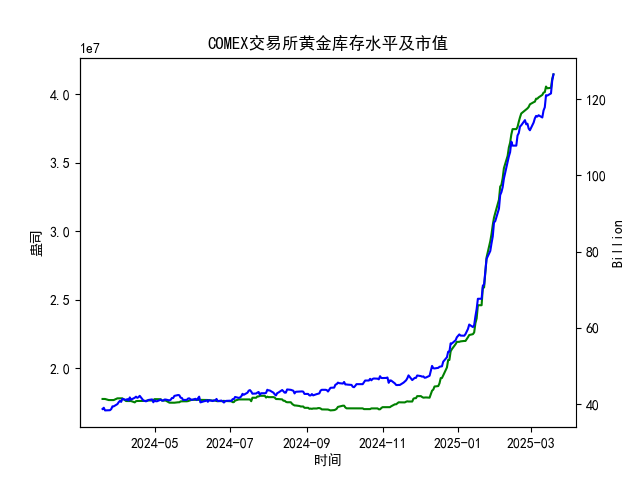
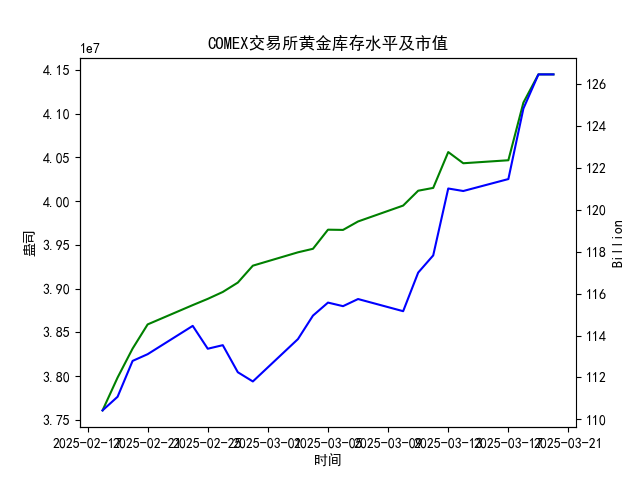
3.20 4

diff --git a/sjtz/wind/api.py b/sjtz/wind/api.py
@@ -9,7 +9,7 @@ dir = os.path.dirname(__file__)
 today = datetime.date.today()
 #print(today)
 w.start() # 默认命令超时时间为120秒，如需设置超时时间可以加入waitTime参数，例如waitTime=60,即设置命令超时时间为60秒 
-begin = today - datetime.timedelta(days=365)
+begin = today - datetime.timedelta(days=30)
 w.isconnected() # 判断WindPy是否已经登录成功
 data = w.edb(["S0114145","S0069669","S0031645","S0035819"],str(begin), end_date=str(today),Fill="Previous",usedf = True)[1]#comex黄金库存，comex黄金库存市值,黄金现货价（伦敦市场）#上海金交所黄金现货价
 z = np.around(np.multiply(data['S0114145'].values,data['S0069669'].values)/(10**9),decimals=2)
@@ -27,14 +27,17 @@ plt.rcParams['font.sans-serif'] = ['SimHei']
 plt.title('COMEX交易所黄金库存水平及市值')
 plt.savefig(os.path.join(dir,'plot.png'))
 
-prompt = f"""这是近一年COMEX交易所黄金库存量的数据：{data['S0114145']}
-这是近一年COMEX交易所黄金库存市值的数据(单位billian)：{z}
-这是近一年伦敦市场黄金现货价格数据：{data['S0031645']}
-这是近一年上海金交所黄金现货价格数据：{data['S0035819']}
+prompt = f"""这是近一个月COMEX交易所黄金库存量的数据：{data['S0114145']}
+这是近一个月COMEX交易所黄金库存市值的数据(单位billian)：{z}
+这是近一个月伦敦市场黄金现货价格数据：{data['S0031645']}
+这是近一个月上海金交所黄金现货价格数据：{data['S0035819']}
 任务：请根据上述结果分析判断近期是否存在套利策略。
 请使用Markdown格式回答，但不要用任何代码块（如 ```）包裹内容。
 """
+data.columns = ["comex黄金库存量","comex黄金库存市值","黄金现货价（伦敦市场）","上海金交所黄金现货价"]
+new_data = data.to_markdown()
 result = call_model(prompt)
-result+="![图](plot.png)"
+result+="\n"+"![图](plot.png)"
+result+="\n"+new_data
 with open(os.path.join(dir,"stragety.md"), "w", encoding="utf-8") as file:
             file.write(result)

diff --git a/sjtz/wind/stragety.md b/sjtz/wind/stragety.md
@@ -1,39 +1,78 @@
 
 
-根据提供的黄金库存、市值及价格数据，近期可能存在以下套利机会：
-
-### 一、跨市场套利（伦敦与上海）
-1. **价差分析**  
-   - 伦敦金价（美元计价）与上海金价（人民币计价）存在显著差异。以2025年3月19日为例：
-     - 伦敦金价：3027.55美元/盎司  
-     - 上海金价：707.70元/克  
-     - 按汇率1:7.2、1盎司≈31.1035克计算，伦敦金价换算为人民币约700元/克，与上海金价（707.70元/克）存在约7.7元/克的价差。
-
-2. **套利空间**  
-   - 若扣除交易成本（手续费、运输、保险等约5元/克），仍有约2.7元/克的潜在利润。若价差持续扩大，套利空间可能进一步增加。
-
-3. **风险因素**  
-   - 需关注汇率波动风险（人民币兑美元）及两地市场流动性差异。
+根据提供的黄金市场数据，以下是对近期套利策略的分析：
 
 ---
 
-### 二、库存与价格背离套利（COMEX）
-1. **库存与市值关系**  
-   - COMEX黄金库存量从1773万盎司增至4144万盎司（增长133%），而库存市值从38.76 billion增至126.45 billion（增长226%），表明单位黄金价格显著上涨（与现货价格趋势一致）。
+### 一、跨市套利机会分析（伦敦 vs 上海）
+1. **价差计算**  
+   - 伦敦金价以美元/盎司计价，上海金价以人民币/克计价。通过单位换算（1盎司≈31.1035克，假设汇率为1美元=7人民币），伦敦金价可转换为人民币/克。  
+   - **示例（2025-03-20）**：  
+     伦敦价：3027.55美元/盎司 → 3027.55×7/31.1035≈681.25元/克  
+     上海价：709.09元/克  
+     价差：709.09 - 681.25 = **27.84元/克**  
 
-2. **潜在机会**  
-   - 若库存持续增加但金价短期回调，可能形成期现价差（需期货数据验证）。例如，若期货价格因库存压力下跌，而现货价格因需求坚挺保持高位，可通过买入现货、卖空期货套利。
-
----
-
-### 三、趋势性套利
-1. **价格趋势**  
-   - 伦敦与上海金价均呈现单边上涨趋势（伦敦：2157→3027美元/盎司；上海：505→707元/克），但短期波动可能带来日内或跨日套利机会。
-
-2. **策略建议**  
-   - 通过高频交易捕捉两地市场的瞬时价差，或利用技术分析判断短期回调/反弹节点进行多空对冲。
+2. **价差趋势**  
+   - 价差在数据后期显著扩大（3月中下旬达25-28元/克），且持续存在。  
+   - 若运输、保险、税费等成本低于价差，则存在套利空间。
 
 ---
 
-### 结论
-近期存在**跨市场套利**（伦敦与上海价差）及**库存-价格背离套利**（需期货数据支持）的机会，但需综合考虑汇率风险、交易成本及市场流动性。建议结合实时数据与风险对冲工具优化策略。![图](plot.png)
+### 二、库存与价格关系（COMEX）
+1. **库存与市值变化**  
+   - COMEX库存量从3.76×10⁷盎司增至4.14×10⁷盎司（+10%），库存市值从110.43B增至126.45B（+14.5%）。  
+   - 库存增加通常预示供应充足，但金价仍上涨，可能反映需求强劲或市场情绪推动。
+
+2. **对套利的影响**  
+   - COMEX库存增长未压制伦敦/上海金价，两地价差主要由区域供需或汇率因素驱动。
+
+---
+
+### 三、风险与实操考量
+1. **成本因素**  
+   - 需扣除运输、保险、关税、增值税等成本（假设约10-15元/克），剩余利润决定套利可行性。  
+   - 若净利>0（如示例中27.84元/克 - 成本），则策略可行。
+
+2. **市场流动性**  
+   - 需确保两地市场能同步成交，避免价差在交易期间缩小。
+
+3. **汇率风险**  
+   - 未提供实时汇率数据，需监控汇率波动对利润的影响。
+
+---
+
+### 四、结论
+**存在跨市套利机会**：  
+- 伦敦与上海黄金现货价差显著（后期达27元/克），扣除成本后可能仍有利润空间。  
+- 需结合实际成本与政策限制（如进口税费）进一步验证。  
+
+**建议**：  
+1. 细化成本计算（包括税费、物流）。  
+2. 监控价差稳定性与汇率波动。  
+3. 确保两地市场流动性充足以执行套利。
+![图](plot.png)
+|            |   comex黄金库存量 |   comex黄金库存市值 |   黄金现货价（伦敦市场） |   上海金交所黄金现货价 |
+|:-----------|-------------:|--------------:|--------------:|-------------:|
+| 2025-02-18 |  3.76081e+07 |        2936.4 |       2927.1  |       682.85 |
+| 2025-02-19 |  3.79831e+07 |        2924.5 |       2936.85 |       686.9  |
+| 2025-02-20 |  3.83145e+07 |        2943.8 |       2932.05 |       689.18 |
+| 2025-02-21 |  3.85905e+07 |        2931   |       2934.15 |       683.47 |
+| 2025-02-24 |  3.88111e+07 |        2949.2 |       2931.9  |       685.58 |
+| 2025-02-25 |  3.88823e+07 |        2915.6 |       2933.25 |       685.17 |
+| 2025-02-26 |  3.89612e+07 |        2914.1 |       2901    |       679.3  |
+| 2025-02-27 |  3.90683e+07 |        2873.1 |       2880.8  |       676.52 |
+| 2025-02-28 |  3.92616e+07 |        2847.9 |       2834.55 |       670.78 |
+| 2025-03-03 |  3.94142e+07 |        2888   |       2880.7  |       671.78 |
+| 2025-03-04 |  3.94545e+07 |        2913.6 |       2905.9  |       679.97 |
+| 2025-03-05 |  3.96728e+07 |        2913   |       2913.25 |       681.57 |
+| 2025-03-06 |  3.96702e+07 |        2909   |       2922.2  |       679.7  |
+| 2025-03-07 |  3.97666e+07 |        2910.6 |       2931.15 |       679.48 |
+| 2025-03-10 |  3.99482e+07 |        2882.7 |       2910.2  |       681.99 |
+| 2025-03-11 |  4.01179e+07 |        2916.5 |       2916.9  |       676.71 |
+| 2025-03-12 |  4.01501e+07 |        2934.4 |       2924.8  |       679.43 |
+| 2025-03-13 |  4.05597e+07 |        2983.5 |       2974.05 |       683.77 |
+| 2025-03-14 |  4.04317e+07 |        2990   |       2978.05 |       692.67 |
+| 2025-03-17 |  4.0466e+07  |        3001.5 |       2996.5  |       695.4  |
+| 2025-03-18 |  4.11244e+07 |        3035.2 |       3025.8  |       700.8  |
+| 2025-03-19 |  4.14469e+07 |        3050.9 |       3027.55 |       707.7  |
+| 2025-03-20 |  4.14469e+07 |        3050.9 |       3027.55 |       709.09 |
